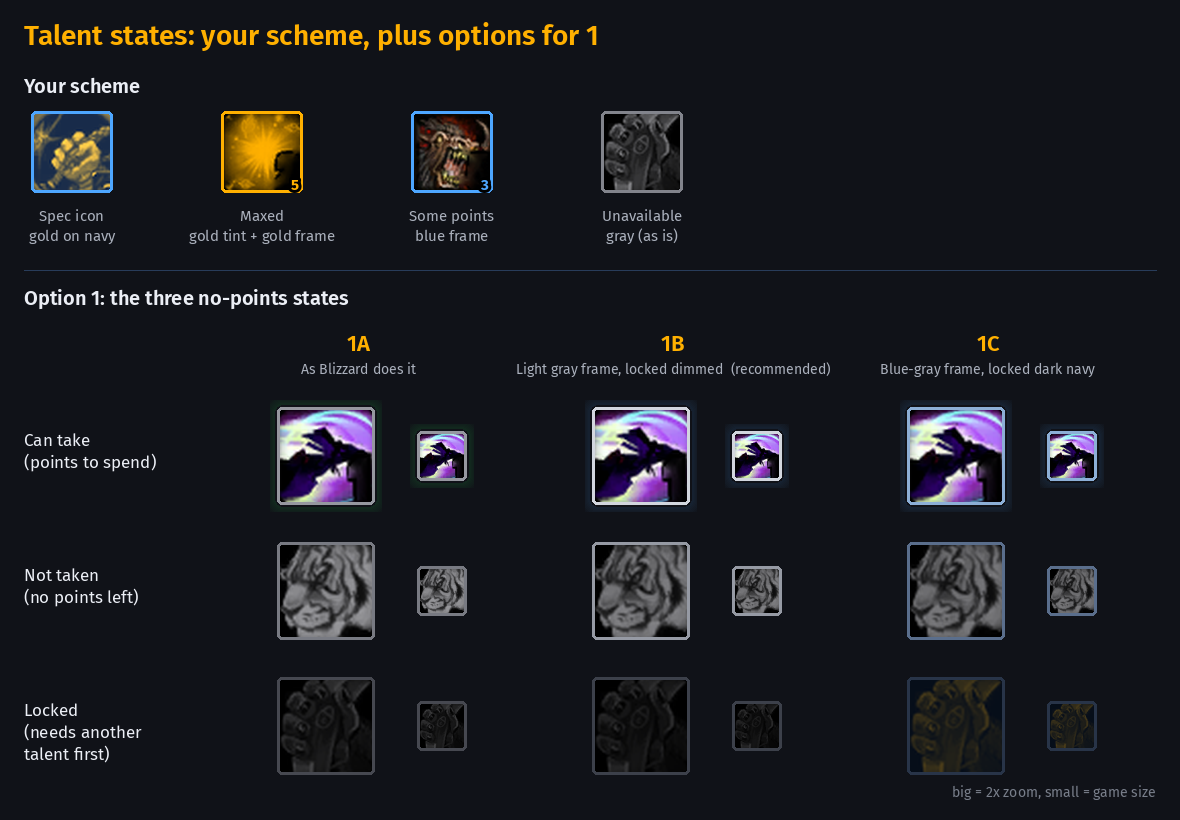
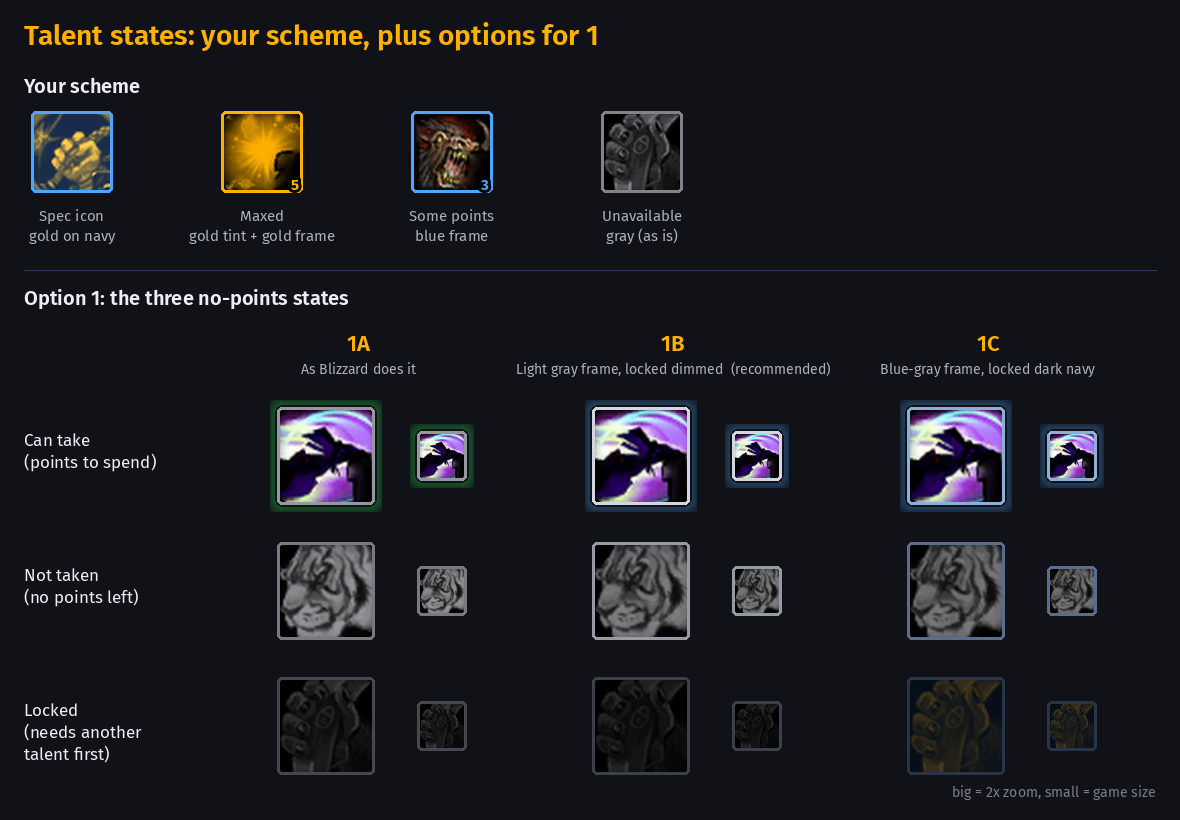
Talent details mockup: 3D arrows, counts, glow
Claude-Session: https://claude.ai/code/session_01VXfbTCnfGK8G42qZ82wSEU

diff --git a/mock/talent_details.py b/mock/talent_details.py
@@ -1,0 +1,126 @@
+# Talent details (user, Nov 25 07:03): 2 arrows thicker and 3D (same bevel
+# lighting as the gold accents: light from the top-right), 3 point counts in
+# the frame color, 4 the "can spend here" glow in blue instead of green.
+import math, numpy as np, cv2
+from PIL import Image, ImageDraw, ImageFont
+import talent_states as TS
+GOLD = (255, 176, 0); BLUE = (77, 166, 255); NAVY = (19, 40, 74); GRAY = (130, 134, 144)
+FD = '/home/claude/brand/AetherHub/Media/Fonts/FiraSans-'
+def F(n, w='Regular'): return ImageFont.truetype(FD + w + '.ttf', n)
+
+def bevel(mask, base, light=(0.62, -0.62)):
+    """3D bevel ridge on a mask, lit from the top-right; the color only
+    darkens, or lifts toward a pale tint of itself at the brightest spot."""
+    n = mask.shape[0]
+    d = cv2.distanceTransform(mask, cv2.DIST_L2, 5).astype(np.float32)
+    w = max(float(d.max()), 1); hgt = cv2.GaussianBlur(d / w, (0, 0), 2)
+    gy, gx = np.gradient(hgt * w * 0.9)
+    nx, ny, nz = -gx, -gy, np.ones_like(gx); ln = np.sqrt(nx * nx + ny * ny + nz * nz)
+    L = np.array([light[0], light[1], 0.62]); L /= np.linalg.norm(L)
+    diff = np.clip((nx * L[0] + ny * L[1] + nz * L[2]) / ln, 0, 1)
+    H = L + np.array([0, 0, 1]); H /= np.linalg.norm(H)
+    spec = np.clip((nx * H[0] + ny * H[1] + nz * H[2]) / ln, 0, 1) ** 30
+    k = (0.58 + 0.62 * diff)[..., None]
+    b = np.array(base, np.float32); pale = b + (255 - b) * 0.75
+    col = b * np.minimum(k, 1.0)
+    s = np.clip(spec * 0.9 + np.clip(k[..., 0] - 1, 0, 1) * 1.5, 0, 0.8)[..., None]
+    col = col * (1 - s) + pale * s
+    alpha = cv2.GaussianBlur(mask.astype(np.float32), (0, 0), 1.2)
+    out = np.zeros(mask.shape + (4,), np.float32); out[..., :3] = col; out[..., 3] = alpha * 255
+    return out
+
+def arrow(length, base, thick, S=4, flat=False):
+    """Vertical arrow pointing down: a dark outline, then the bevel on top."""
+    W = int((thick * 4.2 + 8) * S); H = int((length + 8) * S)
+    m = Image.new('L', (W, H), 0); d = ImageDraw.Draw(m); cx = W / 2
+    t, hh, hw = thick * S, thick * 2.6 * S, thick * 2.0 * S
+    d.rectangle([cx - t / 2, 4 * S, cx + t / 2, H - 4 * S - hh + 2], fill=255)
+    d.polygon([(cx - hw, H - 4 * S - hh), (cx + hw, H - 4 * S - hh), (cx, H - 4 * S)], fill=255)
+    m = np.array(m)
+    if flat:
+        out = np.zeros(m.shape + (4,), np.float32); out[..., :3] = base; out[..., 3] = m
+    else:
+        out = bevel((m > 127).astype(np.uint8), base)
+    dark = cv2.dilate(m, np.ones((2 * S + 1, 2 * S + 1), np.uint8)).astype(np.float32)
+    o = np.zeros(m.shape + (4,), np.float32); o[..., :3] = (8, 10, 14); o[..., 3] = cv2.GaussianBlur(dark, (0, 0), S * 0.6) * 0.85
+    im = Image.fromarray(np.clip(o, 0, 255).astype(np.uint8))
+    im.alpha_composite(Image.fromarray(np.clip(out, 0, 255).astype(np.uint8)))
+    return im.resize((W // S, H // S), Image.LANCZOS)
+
+def count_badge(im, txt, col, style):
+    """3a: digits in the frame color with a dark outline; 3b: small navy
+    badge with a colored edge (as in mockup 3)."""
+    d = ImageDraw.Draw(im); S = im.width
+    if style == 'a':
+        f = F(int(S * 0.27), 'Bold')
+        d.text((S - S * 0.15, S - S * 0.13), txt, font=f, fill=col + (255,), anchor='rb', stroke_width=max(2, S // 28), stroke_fill=(0, 0, 0))
+    else:
+        f = F(int(S * 0.19), 'Bold'); w = d.textlength(txt, font=f) + S * 0.12
+        x1, y1 = S - S * 0.05, S - S * 0.05; x0, y0 = x1 - w, y1 - S * 0.27
+        d.rounded_rectangle([x0, y0, x1, y1], int(S * 0.06), fill=(8, 12, 22, 255), outline=col + (255,), width=max(1, S // 40))
+        d.text(((x0 + x1) / 2, (y0 + y1) / 2), txt, font=f, fill=col + (255,), anchor='mm')
+    return im
+
+def node(ic, state, S, count=None, cstyle='a', glow=None):
+    kw = {'max': dict(border=GOLD, fx='gold'), 'part': dict(border=BLUE), 'can': dict(border=(210, 214, 222)),
+          'lock': dict(border=(60, 64, 74), fx='gray', dim=0.62)}[state]
+    im = TS.tile(ic, S=S, glow=glow, **kw)
+    if count: count_badge(im, count, {'max': GOLD, 'part': BLUE}[state], cstyle)
+    return im
+
+def column(sheet, x, y, S, aether):
+    """maxed -> part -> can take -> locked, linked by arrows."""
+    seq = [(TS.CLAW, 'max', '2/2'), (TS.BEAST, 'part', '3/5'), (TS.BOW, 'can', None), (TS.LOCK, 'lock', None)]
+    cols = [GOLD, BLUE, GRAY]
+    gap = int(S * 0.75)
+    for i, (ic, st, cnt) in enumerate(seq):
+        if aether:
+            im = node(ic, st, S, cnt, 'b', glow=(BLUE if st == 'can' else None))
+        else:   # Blizzard today: yellow/green/gray frames, green glow, yellow digits
+            b = {'max': (240, 200, 40), 'part': (40, 220, 70), 'can': (150, 152, 160), 'lock': (70, 72, 80)}[st]
+            im = TS.tile(ic, border=b, S=S, glow=((34, 230, 80) if st == 'can' else None),
+                         fx=('gray' if st == 'lock' else None), dim=(0.5 if st == 'lock' else 0))
+            if cnt:
+                dd = ImageDraw.Draw(im); f = F(int(S * 0.27), 'Bold')
+                dd.text((S - S * 0.15, S - S * 0.13), cnt.split('/')[0], font=f, fill=b + (255,), anchor='rb', stroke_width=2, stroke_fill=(0, 0, 0))
+        yy = y + i * (S + gap)
+        sheet.alpha_composite(im, (x, yy))
+    for i in range(3):
+        yy = y + i * (S + gap)
+        if True:
+            if aether: a = arrow(gap + 6, cols[i], max(3, S // 14))
+            else:      a = arrow(gap + 6, [(240, 200, 40), (40, 220, 70), (120, 122, 130)][i], max(1, S // 40), flat=True)
+            sheet.alpha_composite(a, (x + S // 2 - a.width // 2, yy + S - 7))
+
+W, H = 1240, 1060
+sheet = Image.new('RGBA', (W, H), (16, 18, 24, 255)); d = ImageDraw.Draw(sheet)
+d.text((24, 18), "Talents: arrows (2), point counts (3), glow (4)", font=F(28, 'SemiBold'), fill=GOLD)
+d.text((24, 60), "Each column runs: maxed  >  some points  >  can take  >  locked.  2x zoom.", font=F(17), fill=(170, 176, 188))
+for i, (t, ae) in enumerate((("Blizzard today", False), ("Aether", True))):
+    x = 60 + i * 260
+    d.text((x + 64, 100), t, font=F(20, 'SemiBold'), fill=(235, 238, 245), anchor='ma')
+    column(sheet, x, 140, 128, ae)
+# game-size column
+d.text((660, 100), "Aether, game size", font=F(20, 'SemiBold'), fill=(235, 238, 245), anchor='ma')
+column(sheet, 628, 140, 64, True)
+# 3: count styles
+X3 = 800
+d.text((X3, 100), "3  Point counts", font=F(22, 'SemiBold'), fill=GOLD)
+for j, (st, name) in enumerate((('a', "3a  Digits in the frame color"), ('b', "3b  Small badge  (recommended)"))):
+    y = 150 + j * 190
+    d.text((X3, y), name, font=F(17), fill=(235, 238, 245))
+    for k, (ic, s, c) in enumerate(((TS.CLAW, 'max', '2/2'), (TS.BEAST, 'part', '3/5'))):
+        im = node(ic, s, 128, c, st); sheet.alpha_composite(im, (X3 + k * 150, y + 30))
+# 4: glow
+y4 = 560
+d.text((X3, y4), "4  'You can spend a point here' glow", font=F(22, 'SemiBold'), fill=GOLD)
+for k, (g, name) in enumerate((((34, 230, 80), "Green (today)"), (BLUE, "Blue  (recommended)"))):
+    im = TS.tile(TS.BOW, border=(210, 214, 222), S=150, glow=g)
+    # stronger, wider glow so it reads at a glance
+    gl = Image.new('RGBA', (190, 190), (0, 0, 0, 0)); gd = ImageDraw.Draw(gl)
+    for r in range(18, 0, -1):
+        gd.rounded_rectangle([20 - r, 20 - r, 170 + r, 170 + r], 14 + r, outline=g + (int(10 * (19 - r) / 6),), width=2)
+    sheet.alpha_composite(gl, (X3 + k * 200 - 20, y4 + 40))
+    sheet.alpha_composite(im, (X3 + k * 200, y4 + 60))
+    d.text((X3 + k * 200 + 75, y4 + 230), name, font=F(16), fill=(170, 176, 188), anchor='ma')
+sheet.convert('RGB').save('/home/claude/aether-repo/mock/out_talent_details.png'); print(sheet.size)

diff --git a/mock/talent_states.py b/mock/talent_states.py
@@ -34,7 +34,7 @@ def tile(ic, border, fx=None, glow=None, dim=0.0, count=None, ccol=None, S=64):
     im = Image.new('RGBA', (S, S), (0, 0, 0, 0)); d = ImageDraw.Draw(im)
     if glow:
         for k in range(8, 0, -1):
-            d.rounded_rectangle([8 - k - 4, 8 - k - 4, S - 9 + k + 4, S - 9 + k + 4], 10, outline=glow + (int(26 * (9 - k) / 8),), width=2)
+            d.rounded_rectangle([8 - k - 4, 8 - k - 4, S - 9 + k + 4, S - 9 + k + 4], 10, outline=glow + (int(70 * (9 - k) / 8),), width=2)
     icn = Image.fromarray(np.clip(a, 0, 255).astype(np.uint8)).resize((S - 18, S - 18), Image.LANCZOS)
     im.paste(icn, (9, 9))
     d.rounded_rectangle([7, 7, S - 8, S - 8], 5, outline=border + (255,), width=3)
